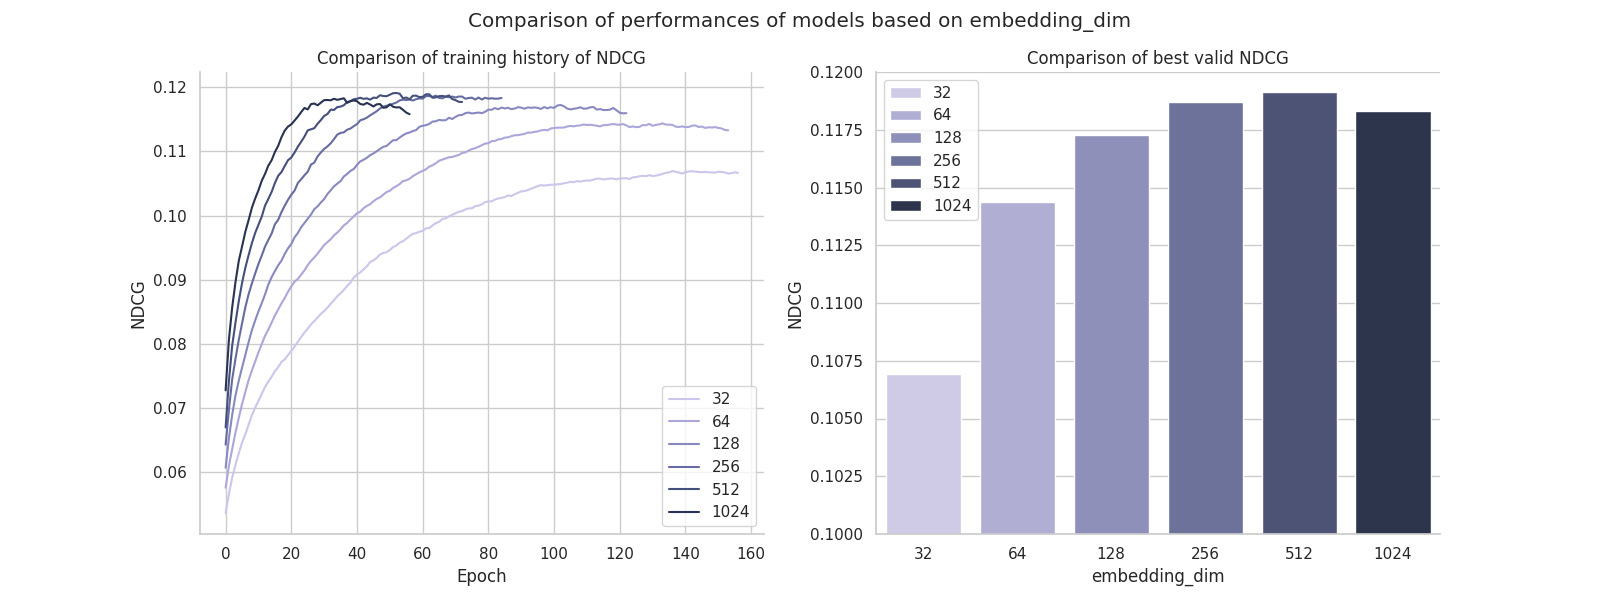
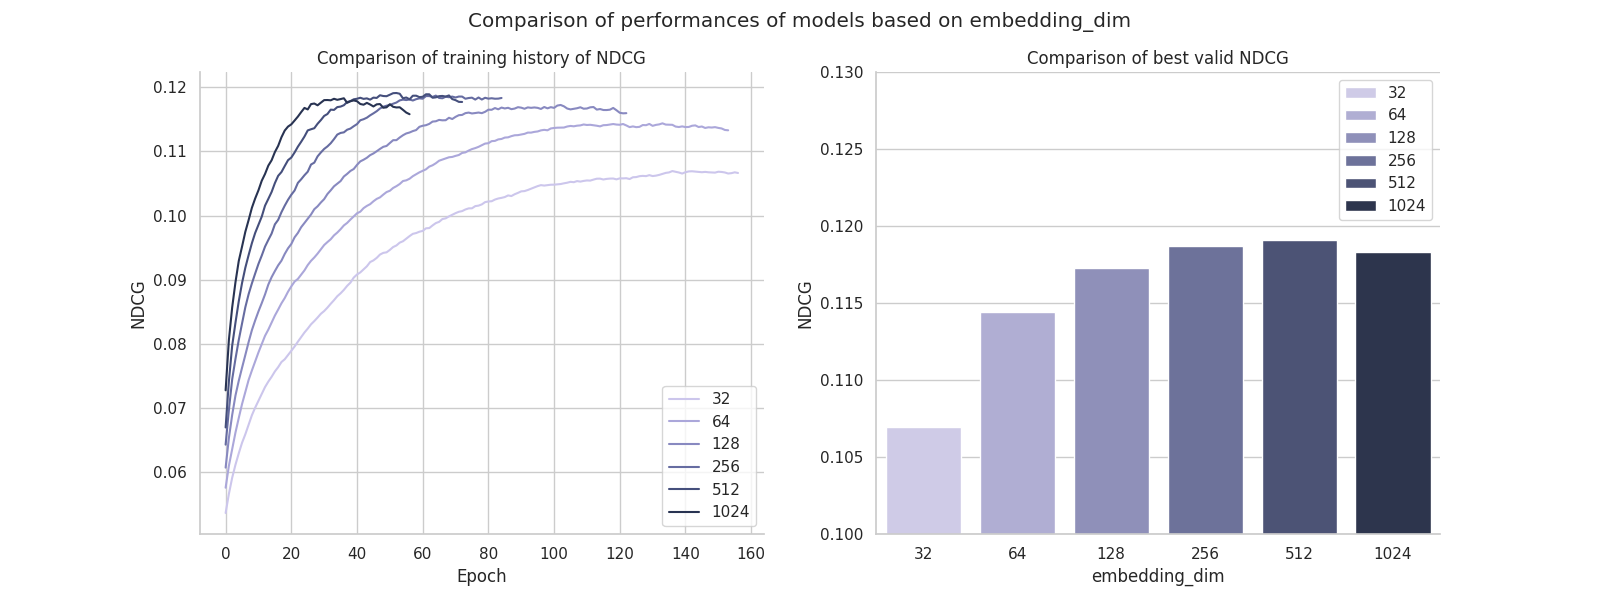
experiment with n_layers 6

diff --git a/evaluation/compare_models.py b/evaluation/compare_models.py
@@ -35,7 +35,10 @@ def load_hydra_config(name, config_path):
         cfg = compose(config_name=name, overrides=[])
         return cfg
 
-def plot_comparisons(names, targets, config_path):
+def plot_comparisons(names, targets, config_path, target_name=None):
+    if target_name is None:
+        target_name = targets[-1]
+
     sns.set_theme(style="whitegrid", rc={"axes.spines.right": False, "axes.spines.top": False})
     _, (ax1, ax2) = plt.subplots(1, 2, figsize=(16, 6))
     palette = sns.cubehelix_palette(n_colors=len(names), start=2.8, rot=0.1, dark=0.2, light=0.8)
@@ -62,15 +65,15 @@ def plot_comparisons(names, targets, config_path):
 
     results = results[["target", "ndcg"]].groupby("target").agg("max")
     sns.barplot(results, x="target", y="ndcg", ax=ax2, hue="target", palette=palette)
-    ax2.set_ylim(0.10, 0.12)
+    ax2.set_ylim(0.10, 0.13)
     ax2.set_title("Comparison of best valid NDCG")
-    ax2.set_xlabel(targets[-1])
+    ax2.set_xlabel(target_name)
     ax2.set_ylabel("NDCG")
     ax2.legend()
 
     folder_path = f"../results/{cfg.dataset.country}/plots/comparisons/"
     os.makedirs(folder_path, exist_ok=True)
-    plt.savefig(f"{folder_path}/{targets[-1]}.png")
+    plt.savefig(f"{folder_path}/{target_name}.png")
 
 if __name__ == "__main__":
     config_path = "../config"
@@ -79,7 +82,7 @@ if __name__ == "__main__":
     targets = ["model", "embedding_dim"]
     plot_comparisons(names, targets, config_path)
 
-    names = ["n_layers_2", "baseline", "n_layers_4", "n_layers_5"]
+    names = ["n_layers_2", "baseline", "n_layers_4", "n_layers_5", "n_layers_6"]
     targets = ["model", "n_layers"]
     plot_comparisons(names, targets, config_path)
 
@@ -94,3 +97,7 @@ if __name__ == "__main__":
     names = ["lr_0.01", "baseline", "lr_0.0001"]
     targets = ["training", "lr"]
     plot_comparisons(names, targets, config_path)
+
+    names = ["emb_512_n_layers_4_reg_0.001", "emb_512_n_layers_5_reg_0.001", "emb_512_n_layers_6_reg_0.001"]
+    targets = ["model", "n_layers"]
+    plot_comparisons(names, targets, config_path, target_name="emb_512_reg_0.001_n_layers")
